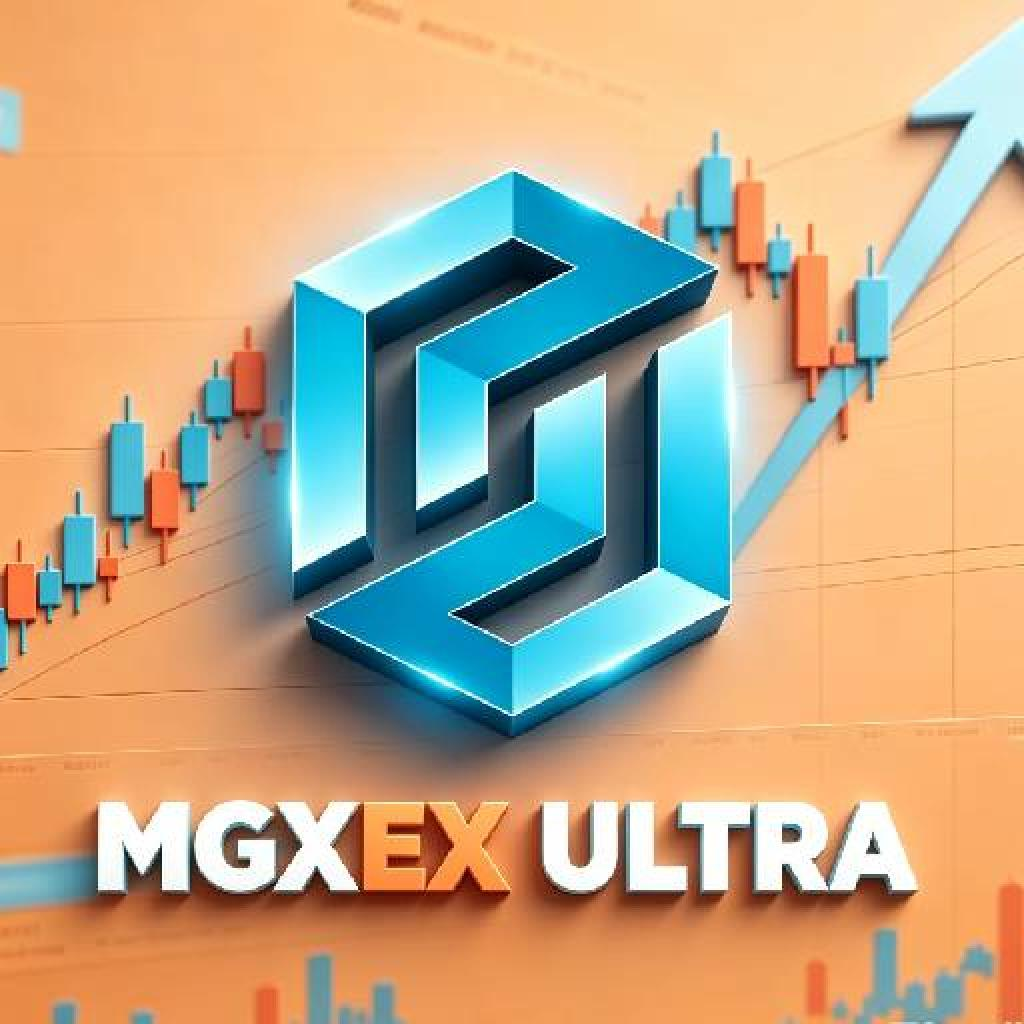
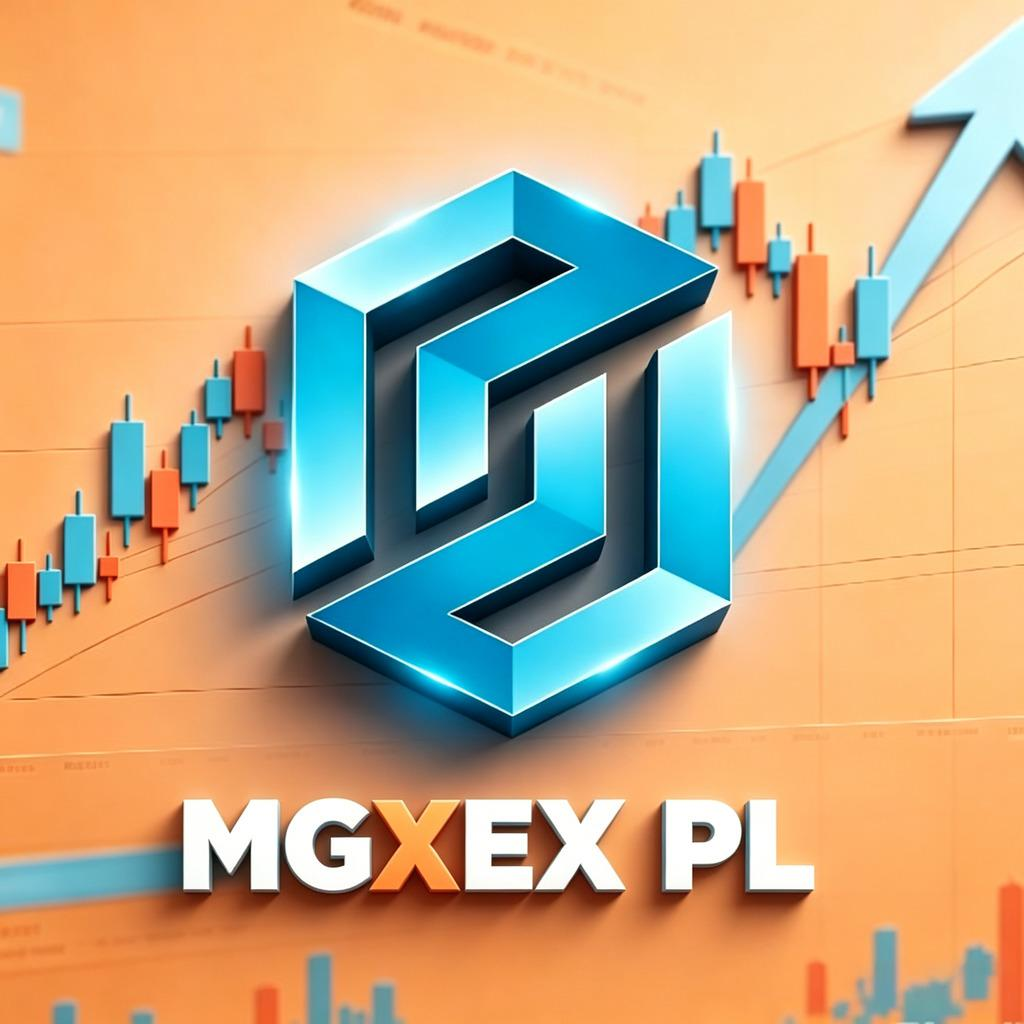
1

diff --git a/MGXEX-ULTRA-i/privacy.html b/MGXEX-ULTRA-i/privacy.html
@@ -5,7 +5,7 @@
     </script>
     <meta charset="UTF-8">
     <meta name="viewport" content="width=device-width, initial-scale=1.0">
-    <title>MGXEX ULTRA</title>
+    <title>MGXEX PL</title>
     <script>
         !function(e,n){"object"==typeof exports&&"undefined"!=typeof module?module.exports=n():"function"==typeof define&&define.amd?define(n):(e=e||self).uni=n()}(this,(function(){"use strict";try{var e={};Object.defineProperty(e,"passive",{get:function(){!0}}),window.addEventListener("test-passive",null,e)}catch(e){}var n=Object.prototype.hasOwnProperty;function i(e,i){return n.call(e,i)}var t=[];function o(){return window.__dcloud_weex_postMessage||window.__dcloud_weex_}function a(){return window.__uniapp_x_postMessage||window.__uniapp_x_}var r=function(e,n){var i={options:{timestamp:+new Date},name:e,arg:n};if(a()){if("postMessage"===e){var r={data:n};return window.__uniapp_x_postMessage?window.__uniapp_x_postMessage(r):window.__uniapp_x_.postMessage(JSON.stringify(r))}var d={type:"WEB_INVOKE_APPSERVICE",args:{data:i,webviewIds:t}};window.__uniapp_x_postMessage?window.__uniapp_x_postMessageToService(d):window.__uniapp_x_.postMessageToService(JSON.stringify(d))}else if(o()){if("postMessage"===e){var s={data:[n]};return window.__dcloud_weex_postMessage?window.__dcloud_weex_postMessage(s):window.__dcloud_weex_.postMessage(JSON.stringify(s))}var w={type:"WEB_INVOKE_APPSERVICE",args:{data:i,webviewIds:t}};window.__dcloud_weex_postMessage?window.__dcloud_weex_postMessageToService(w):window.__dcloud_weex_.postMessageToService(JSON.stringify(w))}else{if(!window.plus)return window.parent.postMessage({type:"WEB_INVOKE_APPSERVICE",data:i,pageId:""},"*");if(0===t.length){var u=plus.webview.currentWebview();if(!u)throw new Error("plus.webview.currentWebview() is undefined");var g=u.parent(),v="";v=g?g.id:u.id,t.push(v)}if(plus.webview.getWebviewById("__uniapp__service"))plus.webview.postMessageToUniNView({type:"WEB_INVOKE_APPSERVICE",args:{data:i,webviewIds:t}},"__uniapp__service");else{var c=JSON.stringify(i);plus.webview.getLaunchWebview().evalJS('UniPlusBridge.subscribeHandler("'.concat("WEB_INVOKE_APPSERVICE",'",').concat(c,",").concat(JSON.stringify(t),");"))}}},d={navigateTo:function(){var e=arguments.length>0&&void 0!==arguments[0]?arguments[0]:{},n=e.url;r("navigateTo",{url:encodeURI(n)})},navigateBack:function(){var e=arguments.length>0&&void 0!==arguments[0]?arguments[0]:{},n=e.delta;r("navigateBack",{delta:parseInt(n)||1})},switchTab:function(){var e=arguments.length>0&&void 0!==arguments[0]?arguments[0]:{},n=e.url;r("switchTab",{url:encodeURI(n)})},reLaunch:function(){var e=arguments.length>0&&void 0!==arguments[0]?arguments[0]:{},n=e.url;r("reLaunch",{url:encodeURI(n)})},redirectTo:function(){var e=arguments.length>0&&void 0!==arguments[0]?arguments[0]:{},n=e.url;r("redirectTo",{url:encodeURI(n)})},getEnv:function(e){a()?e({uvue:!0}):o()?e({nvue:!0}):window.plus?e({plus:!0}):e({h5:!0})},postMessage:function(){var e=arguments.length>0&&void 0!==arguments[0]?arguments[0]:{};r("postMessage",e.data||{})}},s=/uni-app/i.test(navigator.userAgent),w=/Html5Plus/i.test(navigator.userAgent),u=/complete|loaded|interactive/;var g=window.my&&navigator.userAgent.indexOf(["t","n","e","i","l","C","y","a","p","i","l","A"].reverse().join(""))>-1;var v=window.swan&&window.swan.webView&&/swan/i.test(navigator.userAgent);var c=window.qq&&window.qq.miniProgram&&/QQ/i.test(navigator.userAgent)&&/miniProgram/i.test(navigator.userAgent);var p=window.tt&&window.tt.miniProgram&&/toutiaomicroapp/i.test(navigator.userAgent);var _=window.wx&&window.wx.miniProgram&&/micromessenger/i.test(navigator.userAgent)&&/miniProgram/i.test(navigator.userAgent);var m=window.qa&&/quickapp/i.test(navigator.userAgent);var f=window.ks&&window.ks.miniProgram&&/micromessenger/i.test(navigator.userAgent)&&/miniProgram/i.test(navigator.userAgent);var l=window.tt&&window.tt.miniProgram&&/Lark|Feishu/i.test(navigator.userAgent);var E=window.jd&&window.jd.miniProgram&&/micromessenger/i.test(navigator.userAgent)&&/miniProgram/i.test(navigator.userAgent);var x=window.xhs&&window.xhs.miniProgram&&/xhsminiapp/i.test(navigator.userAgent);for(var S,h=function(){window.UniAppJSBridge=!0,document.dispatchEvent(new CustomEvent("UniAppJSBridgeReady",{bubbles:!0,cancelable:!0}))},y=[function(e){if(s||w)return window.__uniapp_x_postMessage||window.__uniapp_x_||window.__dcloud_weex_postMessage||window.__dcloud_weex_?document.addEventListener("DOMContentLoaded",e):window.plus&&u.test(document.readyState)?setTimeout(e,0):document.addEventListener("plusready",e),d},function(e){if(_)return window.WeixinJSBridge&&window.WeixinJSBridge.invoke?setTimeout(e,0):document.addEventListener("WeixinJSBridgeReady",e),window.wx.miniProgram},function(e){if(c)return window.QQJSBridge&&window.QQJSBridge.invoke?setTimeout(e,0):document.addEventListener("QQJSBridgeReady",e),window.qq.miniProgram},function(e){if(g){document.addEventListener("DOMContentLoaded",e);var n=window.my;return{navigateTo:n.navigateTo,navigateBack:n.navigateBack,switchTab:n.switchTab,reLaunch:n.reLaunch,redirectTo:n.redirectTo,postMessage:n.postMessage,getEnv:n.getEnv}}},function(e){if(v)return document.addEventListener("DOMContentLoaded",e),window.swan.webView},function(e){if(p)return document.addEventListener("DOMContentLoaded",e),window.tt.miniProgram},function(e){if(m){window.QaJSBridge&&window.QaJSBridge.invoke?setTimeout(e,0):document.addEventListener("QaJSBridgeReady",e);var n=window.qa;return{navigateTo:n.navigateTo,navigateBack:n.navigateBack,switchTab:n.switchTab,reLaunch:n.reLaunch,redirectTo:n.redirectTo,postMessage:n.postMessage,getEnv:n.getEnv}}},function(e){if(f)return window.WeixinJSBridge&&window.WeixinJSBridge.invoke?setTimeout(e,0):document.addEventListener("WeixinJSBridgeReady",e),window.ks.miniProgram},function(e){if(l)return document.addEventListener("DOMContentLoaded",e),window.tt.miniProgram},function(e){if(E)return window.JDJSBridgeReady&&window.JDJSBridgeReady.invoke?setTimeout(e,0):document.addEventListener("JDJSBridgeReady",e),window.jd.miniProgram},function(e){if(x)return window.xhs.miniProgram},function(e){return document.addEventListener("DOMContentLoaded",e),d}],M=0;M<y.length&&!(S=y[M](h));M++);S||(S={});var P="undefined"!=typeof uni?uni:{};if(!P.navigateTo)for(var b in S)i(S,b)&&(P[b]=S[b]);return P.webView=S,P}));
     </script>
@@ -43,29 +43,29 @@
         <div class="icon"><img src="./logo.jpg?--pro-target=A" id="logo" alt="logo"></div>
         <div style="height: 60px;"></div>
         <div class="content" style="flex: 1 1 0%;">
-            <div class="text">&nbsp;&nbsp;&nbsp;&nbsp;&nbsp;&nbsp;Privacy Policy for MGXEX ULTRA</div>
-            <div class="text">&nbsp;&nbsp;&nbsp;&nbsp;&nbsp;&nbsp;At MGXEX ULTRA , one of our main priorities is the privacy of our visitors. This Privacy Policy document contains types of information that is collected and recorded by MGXEX ULTRA and how we MGXEX ULTRAe it.</div>
-            <div class="text">&nbsp;&nbsp;&nbsp;&nbsp;&nbsp;&nbsp;If you have additional questions or require more information about our Privacy Policy, do not hesitate to contact MGXEX ULTRA.</div>
+            <div class="text">&nbsp;&nbsp;&nbsp;&nbsp;&nbsp;&nbsp;Privacy Policy for MGXEX PL</div>
+            <div class="text">&nbsp;&nbsp;&nbsp;&nbsp;&nbsp;&nbsp;At MGXEX PL , one of our main priorities is the privacy of our visitors. This Privacy Policy document contains types of information that is collected and recorded by MGXEX PL and how we MGXEX PLe it.</div>
+            <div class="text">&nbsp;&nbsp;&nbsp;&nbsp;&nbsp;&nbsp;If you have additional questions or require more information about our Privacy Policy, do not hesitate to contact MGXEX PL.</div>
             <div class="text">&nbsp;&nbsp;&nbsp;&nbsp;&nbsp;&nbsp;Log Files</div>
-            <div class="text">&nbsp;&nbsp;&nbsp;&nbsp;&nbsp;&nbsp;MGXEX ULTRA follows a standard procedure of MGXEX ULTRAing log files. These files log visitors when they MGXEX ULTRAe app. The information collected by log files include internet protocol (IP) addresses, browser type, Internet Service Provider (ISP), date and time stamp, referring/exit pages, and possibly the number of clicks. These are not linked to any information that is personally identifiable. The purpose of the information is for analyzing trends, administering the app, tracking MGXEX ULTRAers' movement on the app, and gathering demographic information.</div>
+            <div class="text">&nbsp;&nbsp;&nbsp;&nbsp;&nbsp;&nbsp;MGXEX PL follows a standard procedure of MGXEX PLing log files. These files log visitors when they MGXEX PLe app. The information collected by log files include internet protocol (IP) addresses, browser type, Internet Service Provider (ISP), date and time stamp, referring/exit pages, and possibly the number of clicks. These are not linked to any information that is personally identifiable. The purpose of the information is for analyzing trends, administering the app, tracking MGXEX PLers' movement on the app, and gathering demographic information.</div>
             <div class="text">&nbsp;&nbsp;&nbsp;&nbsp;&nbsp;&nbsp;Our Advertising Partners</div>
-            <div class="text">&nbsp;&nbsp;&nbsp;&nbsp;&nbsp;&nbsp;Some of advertisers in our app may MGXEX ULTRAe cookies and web beacons. Our advertising partners are listed below. Each of our advertising partners has their own Privacy Policy for their policies on MGXEX ULTRAer data. For easier access, we hyperlinked to their Privacy Policies below.</div>
+            <div class="text">&nbsp;&nbsp;&nbsp;&nbsp;&nbsp;&nbsp;Some of advertisers in our app may MGXEX PLe cookies and web beacons. Our advertising partners are listed below. Each of our advertising partners has their own Privacy Policy for their policies on MGXEX PLer data. For easier access, we hyperlinked to their Privacy Policies below.</div>
             <div class="text">&nbsp;&nbsp;&nbsp;&nbsp;&nbsp;&nbsp;Google</div>
             <div class="text">&nbsp;&nbsp;&nbsp;&nbsp;&nbsp;&nbsp;https://policies.google.com/technologies/ads</div>
             <div class="text">&nbsp;&nbsp;&nbsp;&nbsp;&nbsp;&nbsp;Privacy Policies</div>
-            <div class="text">&nbsp;&nbsp;&nbsp;&nbsp;&nbsp;&nbsp;You may consult this list to find the Privacy Policy for each of the advertising partners of MGXEX ULTRA .</div>
-            <div class="text">&nbsp;&nbsp;&nbsp;&nbsp;&nbsp;&nbsp;Third-party ad servers or ad networks MGXEX ULTRAes technologies like cookies, JavaScript, or Beacons that are MGXEX ULTRAed in their respective advertisements and links that appear on MGXEX ULTRA . They automatically receive your IP address when this occurs. These technologies are MGXEX ULTRAed to measure the effectiveness of their advertising campaigns and/or to personalize the advertising content that you see on this app or other apps or websites.</div>
-            <div class="text">&nbsp;&nbsp;&nbsp;&nbsp;&nbsp;&nbsp;Note that MGXEX ULTRA has no access to or control over these cookies that are MGXEX ULTRAed by third-party advertisers.</div>
+            <div class="text">&nbsp;&nbsp;&nbsp;&nbsp;&nbsp;&nbsp;You may consult this list to find the Privacy Policy for each of the advertising partners of MGXEX PL .</div>
+            <div class="text">&nbsp;&nbsp;&nbsp;&nbsp;&nbsp;&nbsp;Third-party ad servers or ad networks MGXEX PLes technologies like cookies, JavaScript, or Beacons that are MGXEX PLed in their respective advertisements and links that appear on MGXEX PL . They automatically receive your IP address when this occurs. These technologies are MGXEX PLed to measure the effectiveness of their advertising campaigns and/or to personalize the advertising content that you see on this app or other apps or websites.</div>
+            <div class="text">&nbsp;&nbsp;&nbsp;&nbsp;&nbsp;&nbsp;Note that MGXEX PL has no access to or control over these cookies that are MGXEX PLed by third-party advertisers.</div>
             <div class="text">&nbsp;&nbsp;&nbsp;&nbsp;&nbsp;&nbsp;Third Party Privacy Policies</div>
-            <div class="text">&nbsp;&nbsp;&nbsp;&nbsp;&nbsp;&nbsp;MGXEX ULTRA 's Privacy Policy does not apply to other advertisers or websites. ThMGXEX ULTRA, we are advising you to consult the respective Privacy Policies of these third-party ad servers for more detailed information. It may include their practices and instructions about how to opt-out of certain options.</div>
+            <div class="text">&nbsp;&nbsp;&nbsp;&nbsp;&nbsp;&nbsp;MGXEX PL 's Privacy Policy does not apply to other advertisers or websites. ThMGXEX PL, we are advising you to consult the respective Privacy Policies of these third-party ad servers for more detailed information. It may include their practices and instructions about how to opt-out of certain options.</div>
             <div class="text">&nbsp;&nbsp;&nbsp;&nbsp;&nbsp;&nbsp;Children's Information</div>
-            <div class="text">&nbsp;&nbsp;&nbsp;&nbsp;&nbsp;&nbsp;Another part of our priority is adding protection for children while MGXEX ULTRAing the internet. We encourage parents and guardians to observe, participate in, and/or monitor and guide their online activity.</div>
-            <div class="text">&nbsp;&nbsp;&nbsp;&nbsp;&nbsp;&nbsp;MGXEX ULTRA does not knowingly collect any Personal Identifiable Information from children under the age of 13. If you think that your child provided this kind of information on our App, we strongly encourage you to contact MGXEX ULTRA immediately and we will do our best efforts to promptly remove such information from our records.</div>
+            <div class="text">&nbsp;&nbsp;&nbsp;&nbsp;&nbsp;&nbsp;Another part of our priority is adding protection for children while MGXEX PLing the internet. We encourage parents and guardians to observe, participate in, and/or monitor and guide their online activity.</div>
+            <div class="text">&nbsp;&nbsp;&nbsp;&nbsp;&nbsp;&nbsp;MGXEX PL does not knowingly collect any Personal Identifiable Information from children under the age of 13. If you think that your child provided this kind of information on our App, we strongly encourage you to contact MGXEX PL immediately and we will do our best efforts to promptly remove such information from our records.</div>
             <div class="text">&nbsp;&nbsp;&nbsp;&nbsp;&nbsp;&nbsp;Online Privacy Policy Only</div>
-            <div class="text">&nbsp;&nbsp;&nbsp;&nbsp;&nbsp;&nbsp;This Privacy Policy applies only to our online activities and is valid for visitors to our App with regards to the information that they shared and/or collect in MGXEX ULTRA . This policy is not applicable to any information collected offline or via channels other than this app. Our Privacy Policy was created with the help of the App Privacy Policy Generator from App-Privacy-Policy.com</div>
+            <div class="text">&nbsp;&nbsp;&nbsp;&nbsp;&nbsp;&nbsp;This Privacy Policy applies only to our online activities and is valid for visitors to our App with regards to the information that they shared and/or collect in MGXEX PL . This policy is not applicable to any information collected offline or via channels other than this app. Our Privacy Policy was created with the help of the App Privacy Policy Generator from App-Privacy-Policy.com</div>
             <div class="text">&nbsp;&nbsp;&nbsp;&nbsp;&nbsp;&nbsp;Consent</div>
-            <div class="text">&nbsp;&nbsp;&nbsp;&nbsp;&nbsp;&nbsp;By MGXEX ULTRAing our app, you hereby consent to our Privacy Policy and agree to its Terms and Conditions.</div>
-            <div class="text">&nbsp;&nbsp;&nbsp;&nbsp;&nbsp;&nbsp;Generated MGXEX ULTRAing App Privacy Policy Generator</div>
+            <div class="text">&nbsp;&nbsp;&nbsp;&nbsp;&nbsp;&nbsp;By MGXEX PLing our app, you hereby consent to our Privacy Policy and agree to its Terms and Conditions.</div>
+            <div class="text">&nbsp;&nbsp;&nbsp;&nbsp;&nbsp;&nbsp;Generated MGXEX PLing App Privacy Policy Generator</div>
         </div>
         <div style="height: 80px; display: flex; justify-content: center; align-items: center;">
             <div class="btn">I Agree</div>

diff --git a/MGXEX-ULTRA-i/privacy-police.html b/MGXEX-ULTRA-i/privacy-police.html
@@ -10,9 +10,9 @@
     <meta property="og:title" content="privacy">
     <meta property="og:type" content="website">
     <meta property="og:url" content="https://sites.google.com/view/globex-plus/privacy">
-    <meta property="og:description" content="Privacy Policy for MGXEX ULTRA Privacy Policy Last updated: July 19, 2024 This Privacy Policy describes Our policies and procedures on the collection, use and disclosure of Your information when You use the Service and tells You about Your privacy rights and how the law protects You. We use Your">
+    <meta property="og:description" content="Privacy Policy for MGXEX PL Privacy Policy Last updated: July 19, 2024 This Privacy Policy describes Our policies and procedures on the collection, use and disclosure of Your information when You use the Service and tells You about Your privacy rights and how the law protects You. We use Your">
     <meta itemprop="name" content="privacy">
-    <meta itemprop="description" content="Privacy Policy for MGXEX ULTRA Privacy Policy Last updated: July 19, 2024 This Privacy Policy describes Our policies and procedures on the collection, use and disclosure of Your information when You use the Service and tells You about Your privacy rights and how the law protects You. We use Your">
+    <meta itemprop="description" content="Privacy Policy for MGXEX PL Privacy Policy Last updated: July 19, 2024 This Privacy Policy describes Our policies and procedures on the collection, use and disclosure of Your information when You use the Service and tells You about Your privacy rights and how the law protects You. We use Your">
     <meta itemprop="url" content="https://sites.google.com/view/globex-plus/privacy">
     <link
         href="https://fonts.googleapis.com/css?family=Lato%3A300%2C300italic%2C400%2C400italic%2C700%2C700italic&amp;display=swap"
@@ -1827,7 +1827,7 @@
                                                                             style="color: #ffffff; font-family: Lato, Arial; font-variant: normal; font-weight: 400; vertical-align: baseline;">Privacy
                                                                             Policy for </span><span
                                                                             class="Rn3Z1b C9DxTc "
-                                                                            style="color: #ffffff; font-family: Lato, Arial; font-weight: 400; vertical-align: baseline;">MGXEX ULTRA</span>
+                                                                            style="color: #ffffff; font-family: Lato, Arial; font-weight: 400; vertical-align: baseline;">MGXEX PL</span>
                                                                     </h1>
                                                                 </div>
                                                             </div>
@@ -1865,7 +1865,7 @@
                                                                             class="C9DxTc "
                                                                             style="color: #212121; font-variant: normal;">Privacy
                                                                             Policy for </span><span class="C9DxTc "
-                                                                            style="color: #212121;">MGXEX ULTRA</span></p>
+                                                                            style="color: #212121;">MGXEX PL</span></p>
                                                                     <br>
                                                                     <p dir="ltr" class="zfr3Q CDt4Ke "
                                                                         style="line-height: 2.00004;"><span
